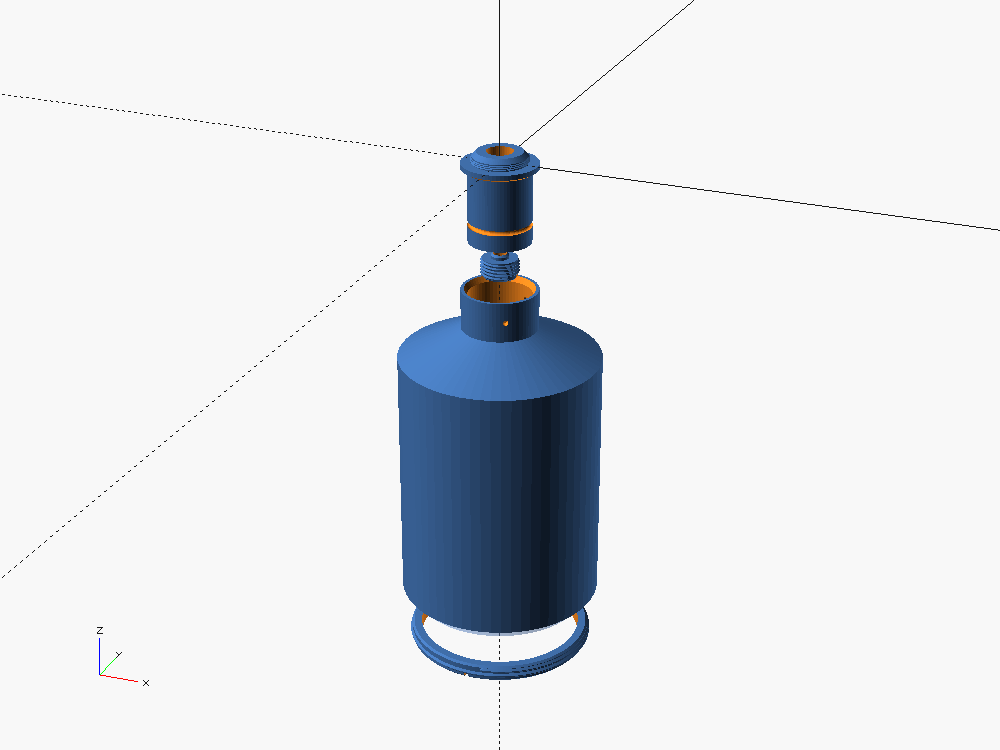
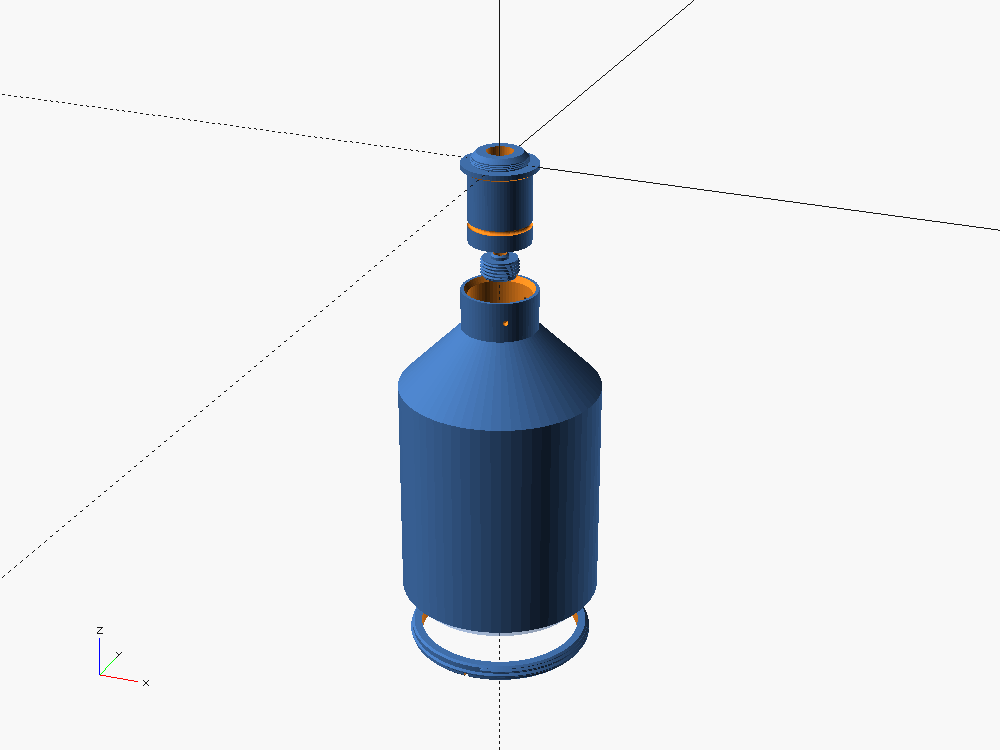
receiver: hold the barrel's OD->socket taper to <=45 deg
The barrel prints optic-end-down, so the bore taper down to the stem socket is
a ceiling overhang. With a fixed 14 mm taper it sat at ~59 deg from vertical.
taper_len now comes from the radial drop (max(14, (barrel_od - socket_od)/2)),
so the bore taper is ~40 deg. Adds an assert that the longer taper still clears
the light cone, and notes the brim needed for the barrel's narrow bed ring.

Ported from the uncommitted overhang work in the
vibrometer-lens-printability worktree (front-plate changes not included).

Changed region(s): [[0.372, 0.3987, 0.62, 0.5827]]

diff --git a/docs/receiver-optic.md b/docs/receiver-optic.md
@@ -84,7 +84,14 @@ cone_d(z)      = clear_aperture_d · |z| / flange_to_optic   // the light cone b
 neck_bore      = ceil(cone_d(−stem_neck_len − join_len) + 4) // must clear the cone at the joint
 neck_od        = neck_bore + 2·wall
 socket_bore    = neck_od + 2·join_fit
+socket_od      = socket_bore + 2·wall
+taper_len      = max(14, (barrel_od − socket_od) / 2)  // OD→socket blend, ≤45° from vertical
 ```
+
+`taper_len` is set from the radial drop, not fixed, so the barrel's OD→socket cone
+is never steeper than 45° from vertical. The barrel prints **optic-end-down**; that
+cone's inner face leans in over the main bore as it rises, and ≤45° keeps it
+support-free. Bigger optic → bigger drop → longer blend, automatically.
 
 Why the barrel is most of the tube: the f/1.9 cone is still ~Ø45 only 60 mm behind
 the optic, so any tube back there has to be wide. The Ø90 barrel bore carries it
@@ -104,7 +111,7 @@ or `flange_to_optic` is too short for the barrel.
 | Part | Prints | Notes |
 |---|---|---|
 | `stem` | 1 | camera interface (`"C"` male 1"-32 + grip shoulder, or `"flange"` register) + filter cell in the neck root + Ø28 neck. Print shoulder/flange-down; no support. |
-| `barrel` | 1 | Ø90 × ~145 mm; optic cell + tube + rear socket. Print optic-end-down. Big — budget time / filament. |
+| `barrel` | 1 | Ø91 × ~149 mm; optic cell + tube + rear socket, OD→socket blend held to ≤45°. Print optic-end-down, no support, **with a 5–8 mm brim** (the chamfered mouth leaves only a ~2 mm ring on the bed). Big — budget time / filament. |
 | `lens_retainer` | 1 | threaded ring: loads from the front (muzzle) end, screws into the barrel's internal thread, and clamps the optic back onto its seat rim (same scheme as `scad/lib/lens/retainer.scad`). |
 | `filter_ring` | 1 | top-hat: a Ø8.1 nose drops onto the filter, the Ø17 threaded body engages the stem. Turn from the −Z (barrel) end. |
 
